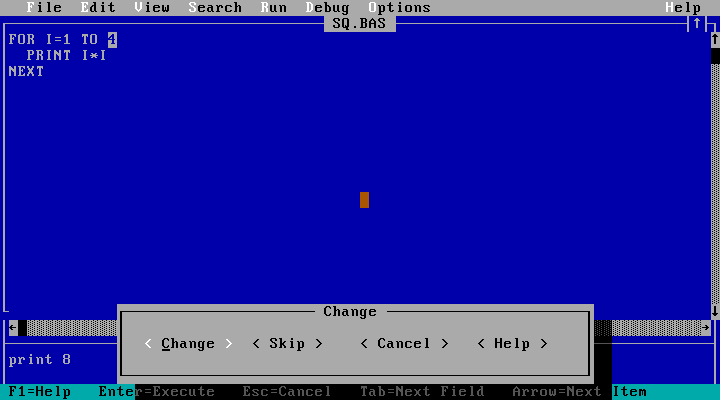
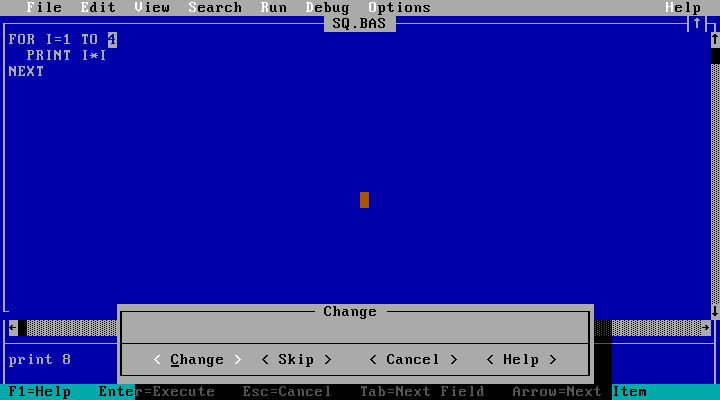
feat(x86): IDE dialogs at QBasic's places and sizes

Changed region(s): [[0.1833, 0.84, 0.4583, 0.93], [0.4889, 0.84, 0.7639, 0.93]]

diff --git a/tools/x86ide_test.py b/tools/x86ide_test.py
@@ -224,8 +224,8 @@ def play() -> None:
     keys("4")
     press("tab")
     keys("5\n")
-    row = look("verify")[21].ljust(80)
-    assert (row[16:26], row[28:36], row[40:50], row[53:61]) == ("< CHANGE >", "< SKIP >", "< CANCEL >", "< HELP >"), look()
+    row = look("verify")[22].ljust(80)
+    assert (row[17:27], row[29:37], row[41:51], row[54:62]) == ("< CHANGE >", "< SKIP >", "< CANCEL >", "< HELP >"), look()
     press("esc")  # Cancel ends it, no box after
     assert text()[0] == "FOR I=1 TO 4" and not any("COMPLETE" in r for r in look()), look()
     # Ctrl+L repeats the find, as QBasic.
@@ -236,9 +236,12 @@ def play() -> None:
     assert look()[24].endswith("00002:006"), look()[24]
     # Find starts from the selection, else the word at the cursor.
     press(f"0x{ALT_S:x}", "f")
-    scr = look(); assert scr[10].ljust(80)[25:28] == "I  ", scr
+    scr = [r.ljust(80) for r in look("find")]
+    # QBasic's dlgSearchFind (uisearch.des), its places client-relative.
+    assert scr[9][12:22] == "FIND WHAT:" and scr[9][24:27] == "I  ", scr
+    assert (scr[16][19:25], scr[16][34:44], scr[16][52:60]) == ("< OK >", "< CANCEL >", "< HELP >"), scr[16]
     press("esc", "0x77", *["right"] * 8, f"0x{ALT_S:x}", "f")
-    scr = look(); assert scr[10].ljust(80)[25:28] == "TO ", scr
+    scr = look(); assert scr[9].ljust(80)[24:27] == "TO ", scr
     press("esc")
 
     # Save As, then Exit to DOS.
